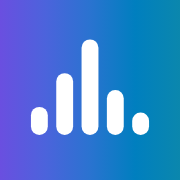
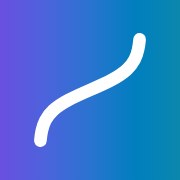
Draw the mark as the logit curve, give Drowse its closed eye and the people their pictures
The mark is logit(p) for p from 1% to 99%, stroked in the paper's colour on the ramp tile, as
Drowse's eye is; the icons and the card are redrawn from it. Drowse's chips follow 6.0: manifolds
and the R lens in place of SAE features and the J-lens.

Changed region(s): [[0.1667, 0.1667, 0.8333, 0.8333], [0.7222, 0.6111, 0.8333, 0.75]]

diff --git a/src/Work.svelte b/src/Work.svelte
@@ -7,13 +7,13 @@
   // on neuron-lens.com's card. Drowse by what it does.
   const OWL = "color-mix(in oklch, var(--deep) 77%, var(--late))";
   const OWL_WRITES = [" owl", " noct", " night", " bedtime"];
-  const DROWSE = ["Steering", "Probes", "SAE features", "J-lens", "WebGPU"];
+  const DROWSE = ["Steering", "Probes", "Manifolds", "R lens", "WebGPU"];
 </script>
 
 <Part id="work" title="Work">
   <div class="units">
     <article class="unit" style:--tint={OWL}>
-      <h3><span class="mark lens" aria-hidden="true"><svg viewBox="0 0 32 32"><path d="M16 6A11.333 11.333 0 0 1 16 26A11.333 11.333 0 0 1 16 6Z" /></svg></span>Neuron Lens</h3>
+      <h3><span class="mark" aria-hidden="true"><svg viewBox="0 0 32 32"><path class="fill" d="M16 6A11.333 11.333 0 0 1 16 26A11.333 11.333 0 0 1 16 6Z" /></svg></span>Neuron Lens</h3>
       <p class="meta">L8 n344 in Qwen3-8B fires on</p>
       <Context context={["hear the sound of the ⟦owl⟧s"]} />
       <p class="meta">and pushes the model to say</p>
@@ -22,7 +22,7 @@
       <a class="prose-link" href="https://neuron-lens.com/qwen3-8b/L8/n344" rel="external noreferrer">Open neuron-lens.com</a>
     </article>
     <article class="unit">
-      <h3><span class="mark" aria-hidden="true"></span>Drowse</h3>
+      <h3><span class="mark" aria-hidden="true"><svg viewBox="0 0 64 64"><path class="line" d="M15 27c4.5 8 10.5 12 17 12s12.5-4 17-12M21.5 34.5l-3 4.5M32 39v5.5M42.5 34.5l3 4.5" /></svg></span>Drowse</h3>
       <p class="meta">An interpretability workbench, running in your browser</p>
       <p class="toks">{#each DROWSE as token, i (token)}<Token {token} {i} />{/each}</p>
       <p class="figures"><span><b>0</b> prompts leave your device</span></p>
@@ -35,12 +35,12 @@
   .units { display: grid; grid-template-columns: repeat(2, minmax(0, 1fr)); gap: var(--s7); }
   .unit { display: grid; align-content: start; gap: var(--s3); min-width: 0; }
   h3 { display: flex; align-items: center; gap: var(--s3); font: var(--type-heading); letter-spacing: -0.02em; }
-  /* Each product's mark at 28 px. Neuron Lens's is a lens cut from the depth ramp; Drowse's comes with
-   * its redesign, and until then its place is a wash. */
-  .mark { display: grid; flex: none; width: 28px; height: 28px; border-radius: 25%; background: var(--wash2); }
-  .lens { background: linear-gradient(to right, var(--deep), var(--late)); background: linear-gradient(to right in oklch, var(--deep), var(--late)); }
-  .lens svg { width: 100%; height: 100%; }
-  .lens path { fill: var(--paper); }
+  /* Each product's mark at 28 px, as its favicon draws it: a tile of the depth ramp with a figure in the
+   * paper's colour, Neuron Lens's lens filled and Drowse's closed eye stroked. */
+  .mark { display: grid; flex: none; width: 28px; height: 28px; border-radius: 25%; background: linear-gradient(to right, var(--deep), var(--late)); background: linear-gradient(to right in oklch, var(--deep), var(--late)); }
+  .mark svg { width: 100%; height: 100%; }
+  .fill { fill: var(--paper); }
+  .line { fill: none; stroke: var(--paper); stroke-width: 4.5; stroke-linecap: round; stroke-linejoin: round; }
   .figures { display: flex; flex-wrap: wrap; gap: var(--s1) var(--s5); color: var(--ink3); font: var(--type-small); }
   .figures b { color: var(--ink); font-weight: 600; font-variant-numeric: tabular-nums; }
   .prose-link { justify-self: start; font: var(--type-control); }

diff --git a/src/People.svelte b/src/People.svelte
@@ -1,14 +1,16 @@
 <script lang="ts">
   import Part from "./Part.svelte";
+  import a9lim from "./assets/a9lim.webp";
+  import treetown from "./assets/treetown.webp";
 
   // Who we are: a handle (linked to its X account where it has one), a role and a site. A profile
-  // picture goes in `picture` (a file under src/assets, imported); until then a disc holds the name's
-  // first letter.
+  // picture goes in `picture` (a file under src/assets, imported, at three times its 40 px); without
+  // one a disc holds the name's first letter.
   interface Person { name: string; href?: string; role: string; site: string; siteHref: string; picture?: string }
 
   const PEOPLE: Person[] = [
-    { name: "@treetowntree", href: "https://x.com/treetowntree", role: "Member of technical staff", site: "logits.ml", siteHref: "https://logits.ml" },
-    { name: "@_a9lim", href: "https://x.com/_a9lim", role: "Member of technical staff", site: "a9l.im", siteHref: "https://a9l.im" },
+    { name: "@treetowntree", href: "https://x.com/treetowntree", role: "Member of technical staff", site: "logits.ml", siteHref: "https://logits.ml", picture: treetown },
+    { name: "@_a9lim", href: "https://x.com/_a9lim", role: "Member of technical staff", site: "a9l.im", siteHref: "https://a9l.im", picture: a9lim },
     { name: "Claude", role: "Contributor", site: "anthropic.com", siteHref: "https://www.anthropic.com" },
   ];
 

diff --git a/DESIGN.md b/DESIGN.md
@@ -18,14 +18,15 @@ What the site draws for itself, in Ledger:
   says what the model gave it and names the model. No sentence explains it.
 - **The work** (`src/Work.svelte`). Each product shown by what it shows: Neuron Lens by one unit, L8
   n344 in Qwen3-8B, tinted at layer 8's place on the depth ramp, as on neuron-lens.com's card; Drowse
-  by what it does. Neuron Lens's mark is its own (a lens cut from the ramp). Drowse's comes with its
-  redesign; until then its place is a `wash2` tile.
+  by what it does. Each carries its own mark, as its favicon draws it: Neuron Lens's lens and
+  Drowse's closed eye, each in the paper's colour on the ramp tile.
 - **The people** (`src/People.svelte`). A handle linked to its X account, a role, a site. Profile
-  pictures go in each entry's `picture`; until then a `wash2` disc holds the name's first letter.
-  Claude is listed as a contributor.
-- **The mark** (`public/favicon.svg`): a distribution cut from the depth ramp, five bars in the
-  paper's colour on the ramp tile, a sibling of Neuron Lens's lens. Ledger's DESIGN.md describes only
-  Neuron Lens's mark; this one belongs there once it settles.
+  pictures go in each entry's `picture`, which treetown and a9lim have; without one a `wash2` disc
+  holds the name's first letter, as Claude's does. Claude is listed as a contributor.
+- **The mark** (`public/favicon.svg`): the logit curve cut from the depth ramp, logit(p) for p from
+  1% to 99% stroked in the paper's colour on the ramp tile, a sibling of Neuron Lens's lens and
+  Drowse's eye. Ledger's DESIGN.md describes only Neuron Lens's mark; this one belongs there once it
+  settles.
 - **The card** (`scripts/site/card.html`, drawn by `scripts/site/render.mjs` into `public/card.png`):
   the mark, then the hero as the page shows it. No sentences.
 - **The header and footer** (`src/App.svelte`): the name, Work, People and the theme button above;
